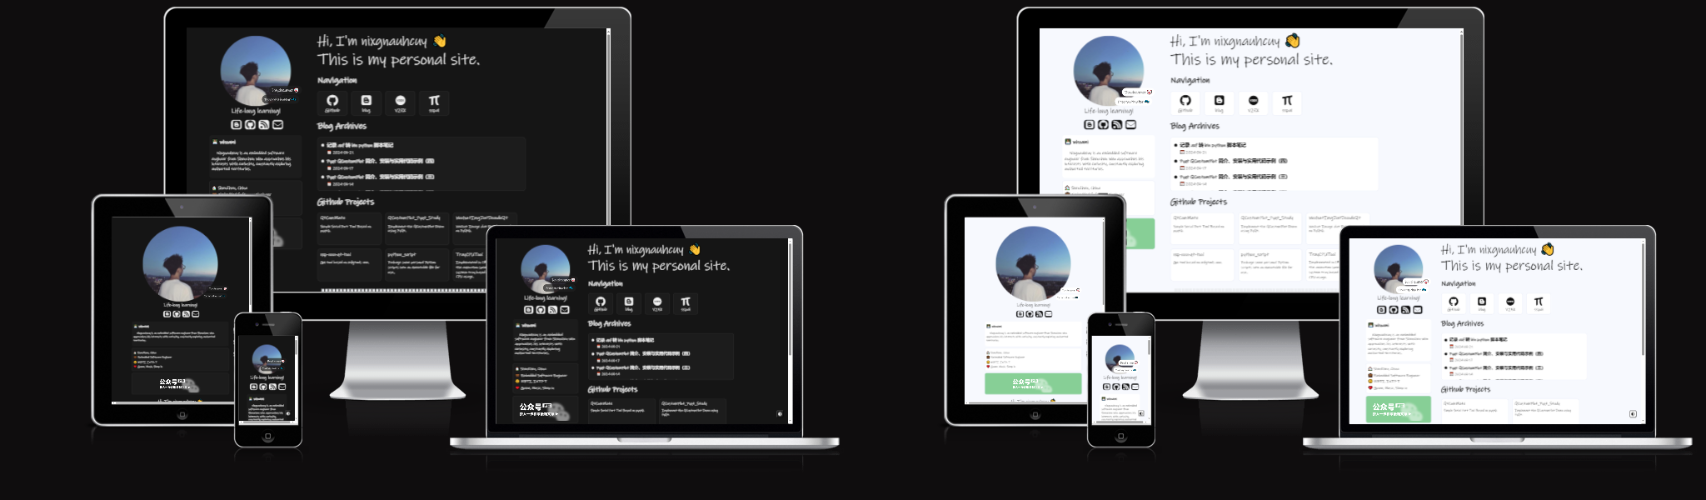
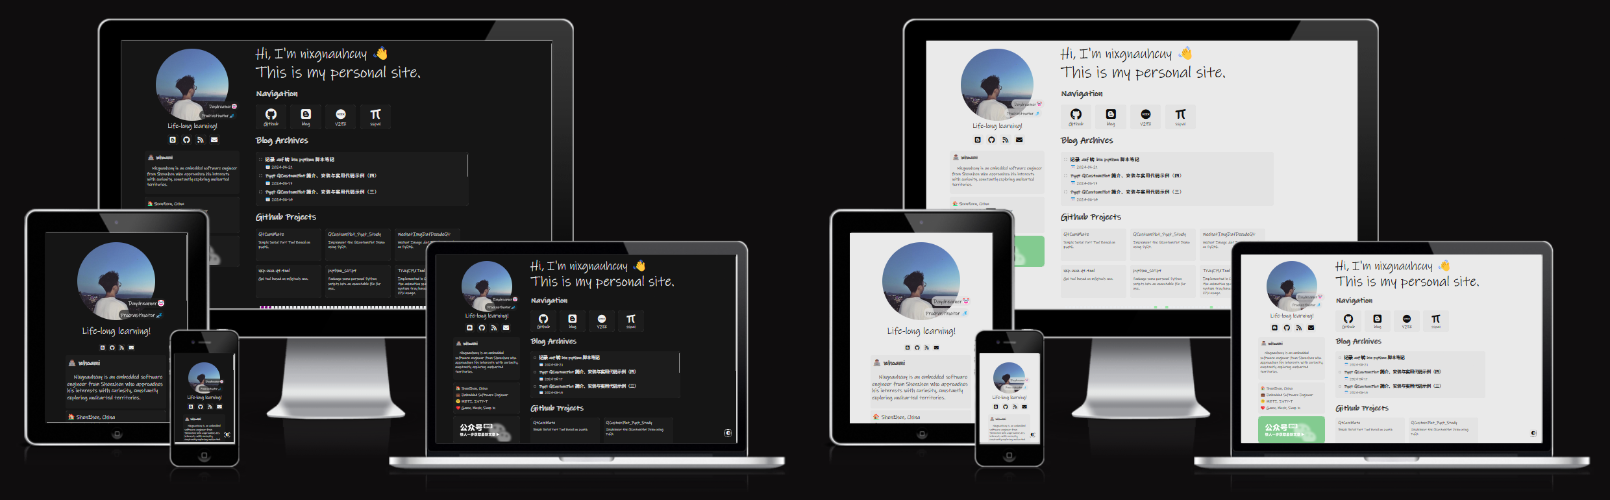
[feat]: change docs and css [scope]: docs, json, css [note]: 1. Change Readme, add image3~4. 2. Change css color 3. Change default config

diff --git a/src/css/variables.scss b/src/css/variables.scss
@@ -2,20 +2,22 @@
   --base-background-color: rgba(21, 21, 21, 1);
   --base-card-color: rgba(31, 31, 31, 0.7);
   --base-font-color: rgba(241, 241, 241, 1);
-  --social-icon-color: rgba(241, 241, 241, 1);
+  --social-icon-background-color: rgba(31, 31, 31, 0.7);
+  --social-icon-font-color: rgba(241, 241, 241, 1);
 
   --card-border: #313131;
   --style-border: 1px solid var(--card-border);
-  --card-wechar-background-color: rgba(31, 31, 31, 0.7);
+  --card-wechat-background-color: rgba(31, 31, 31, 0.7);
 }
 
 .light-mode {
-  --base-background-color: rgba(247, 249, 254, 1);
-  --base-card-color: rgba(255, 255, 255, 1);
+  --base-background-color: rgba(234, 234, 234, 1);
+  --base-card-color: rgba(223, 223, 223, 0.7);
   --base-font-color: rgba(14, 14, 14, 1);
-  --social-icon-color: rgba(14, 14, 14, 1);
+  --social-icon-background-color: rgba(223, 223, 223, 0.7);
+  --social-icon-font-color: rgba(14, 14, 14, 1);
 
-  --card-border: #e3e8f7;
+  --card-border: #e0e0e0;
   --style-border: 1px solid var(--card-border);
-  --card-wechar-background-color: rgba(87, 189, 106, 0.7);
+  --card-wechat-background-color: rgba(87, 189, 106, 0.7);
 }

diff --git a/src/css/style.scss b/src/css/style.scss
@@ -23,8 +23,8 @@ a {
 }
 
 .iconfont {
-  font-size: 30px;
-  color: var(--base-background-color);
+  font-size: 25px;
+  color: var(--social-icon-font-color);
   display: block;
   margin: auto;
 }
@@ -110,7 +110,7 @@ main {
   border-radius: 10px;
   display: flex;
   margin-left: 10px;
-  background: var(--social-icon-color);
+  background: var(--social-icon-background-color);
   align-items: center;
   justify-content: center;
   transition: all 1s
@@ -178,7 +178,7 @@ main {
   justify-content: center;
   align-items: center;
   perspective: 1000;
-  background-color: var(--card-wechar-background-color);
+  background-color: var(--card-wechat-background-color);
 }
 
 .main-left .card#card-wechat:hover .flip-content {
@@ -291,7 +291,6 @@ main {
   content: "";
   width: 10px;
   height: 10px;
-  background: var(--social-icon-color);
   border: 1px solid #999;
   border-radius: 50%;
   position: absolute;

diff --git a/README.md b/README.md
@@ -14,11 +14,17 @@
 
 ![](/docs/img/img2.png)
 
+![](/docs/img/img3.png)
+
+![](/docs/img/img4.png)
+
 ## :gear: Features
 
 - [x] Multi-platform compatibility
 - [x] Light/Dark mode switch
 - [x] [WebGL-Fluid](https://github.com/AYJCSGM/WebGL-Fluid-Simulation/tree/master) background effect support
+- [x] [WebPbv-Fluid](https://github.com/kotsoft/particle_based_viscoelastic_fluid/tree/main) background effect support
+- [x] Gradient background
 
 ## :rocket: Quick Start
 
@@ -49,6 +55,10 @@ Running the command `npm run debug` and then visiting `http://localhost:3000` wi
 ## :gear: Config
 
 Edit the `config.js` file to customize and modify the content to be displayed. It offers a high degree of flexibility, so feel free to explore.
+
+[WebGL-Fluid-Simulation](https://ayjcsgm.github.io/WebGL-Fluid-Simulation/)
+
+[WebPbv-Fluid-Simulation](https://kotsoft.github.io/particle_based_viscoelastic_fluid/)
 
 ## :mailbox_with_mail: Feedback and Contribution
 

diff --git a/README_CN.md b/README_CN.md
@@ -14,11 +14,17 @@
 
 ![](/docs/img/img2.png)
 
+![](/docs/img/img3.png)
+
+![](/docs/img/img4.png)
+
 ## :gear: 功能特性
 
 - [x] 多平台适配
 - [x] 明亮/暗黑模式切换
 - [x] [WebGL-Fluid](https://github.com/AYJCSGM/WebGL-Fluid-Simulation/tree/master) 背景特效支持
+- [x] [WebPbv-Fluid](https://github.com/kotsoft/particle_based_viscoelastic_fluid/tree/main) 背景特效支持
+- [x] 渐变色背景
 
 ## :rocket: 快速开始
 
@@ -49,6 +55,10 @@ npm run debug
 ## :gear: 配置
 
 编辑 `config.js` 文件，可以自定义修改要展示的内容，自由度高，请自行探索。
+
+[WebGL-Fluid-Simulation](https://ayjcsgm.github.io/WebGL-Fluid-Simulation/)
+
+[WebPbv-Fluid-Simulation](https://kotsoft.github.io/particle_based_viscoelastic_fluid/)
 
 ## :mailbox_with_mail: 反馈与贡献
 
